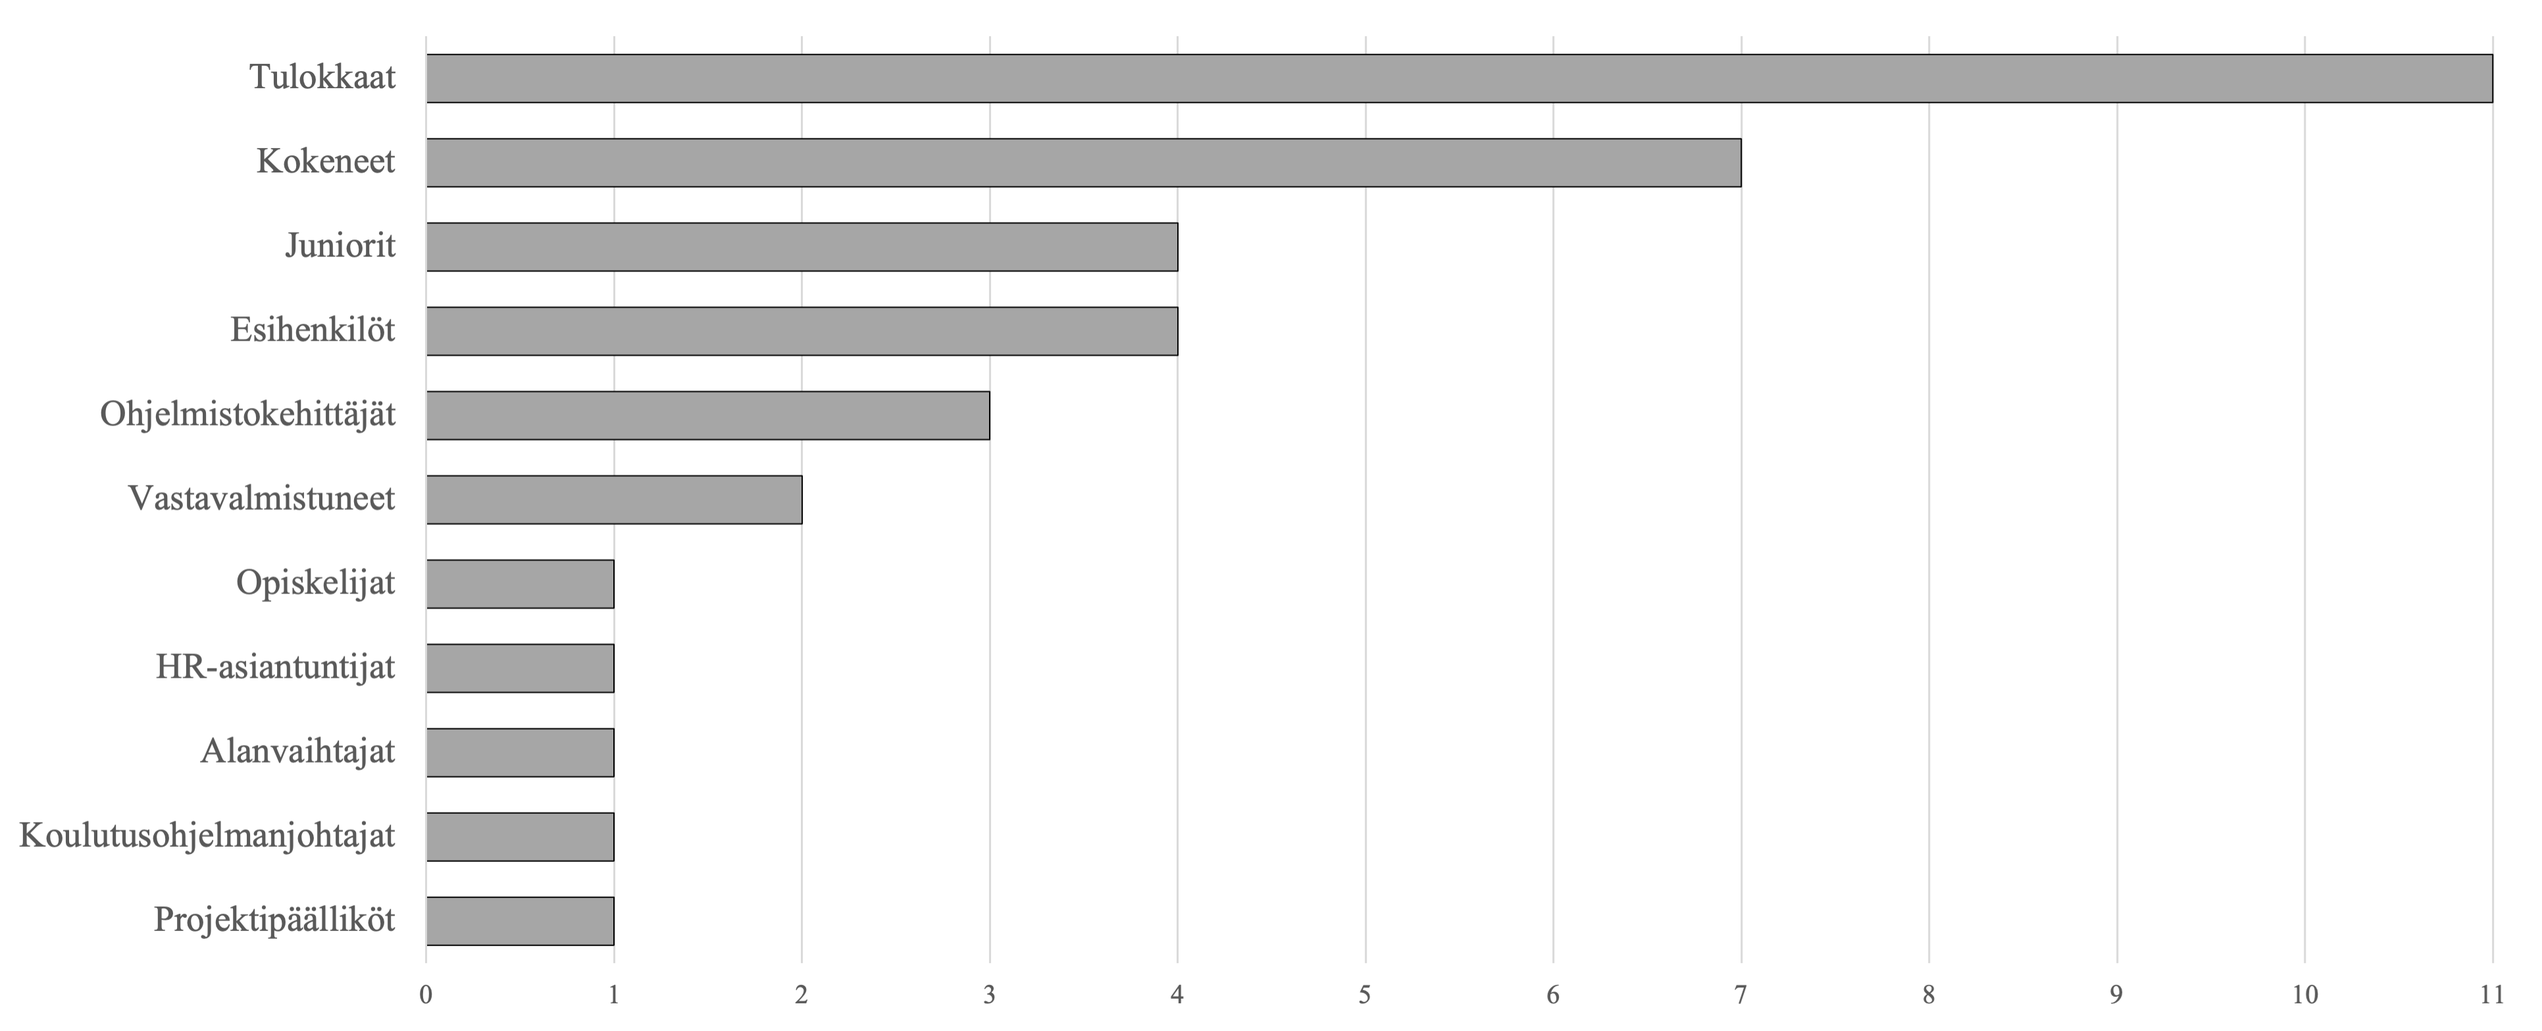
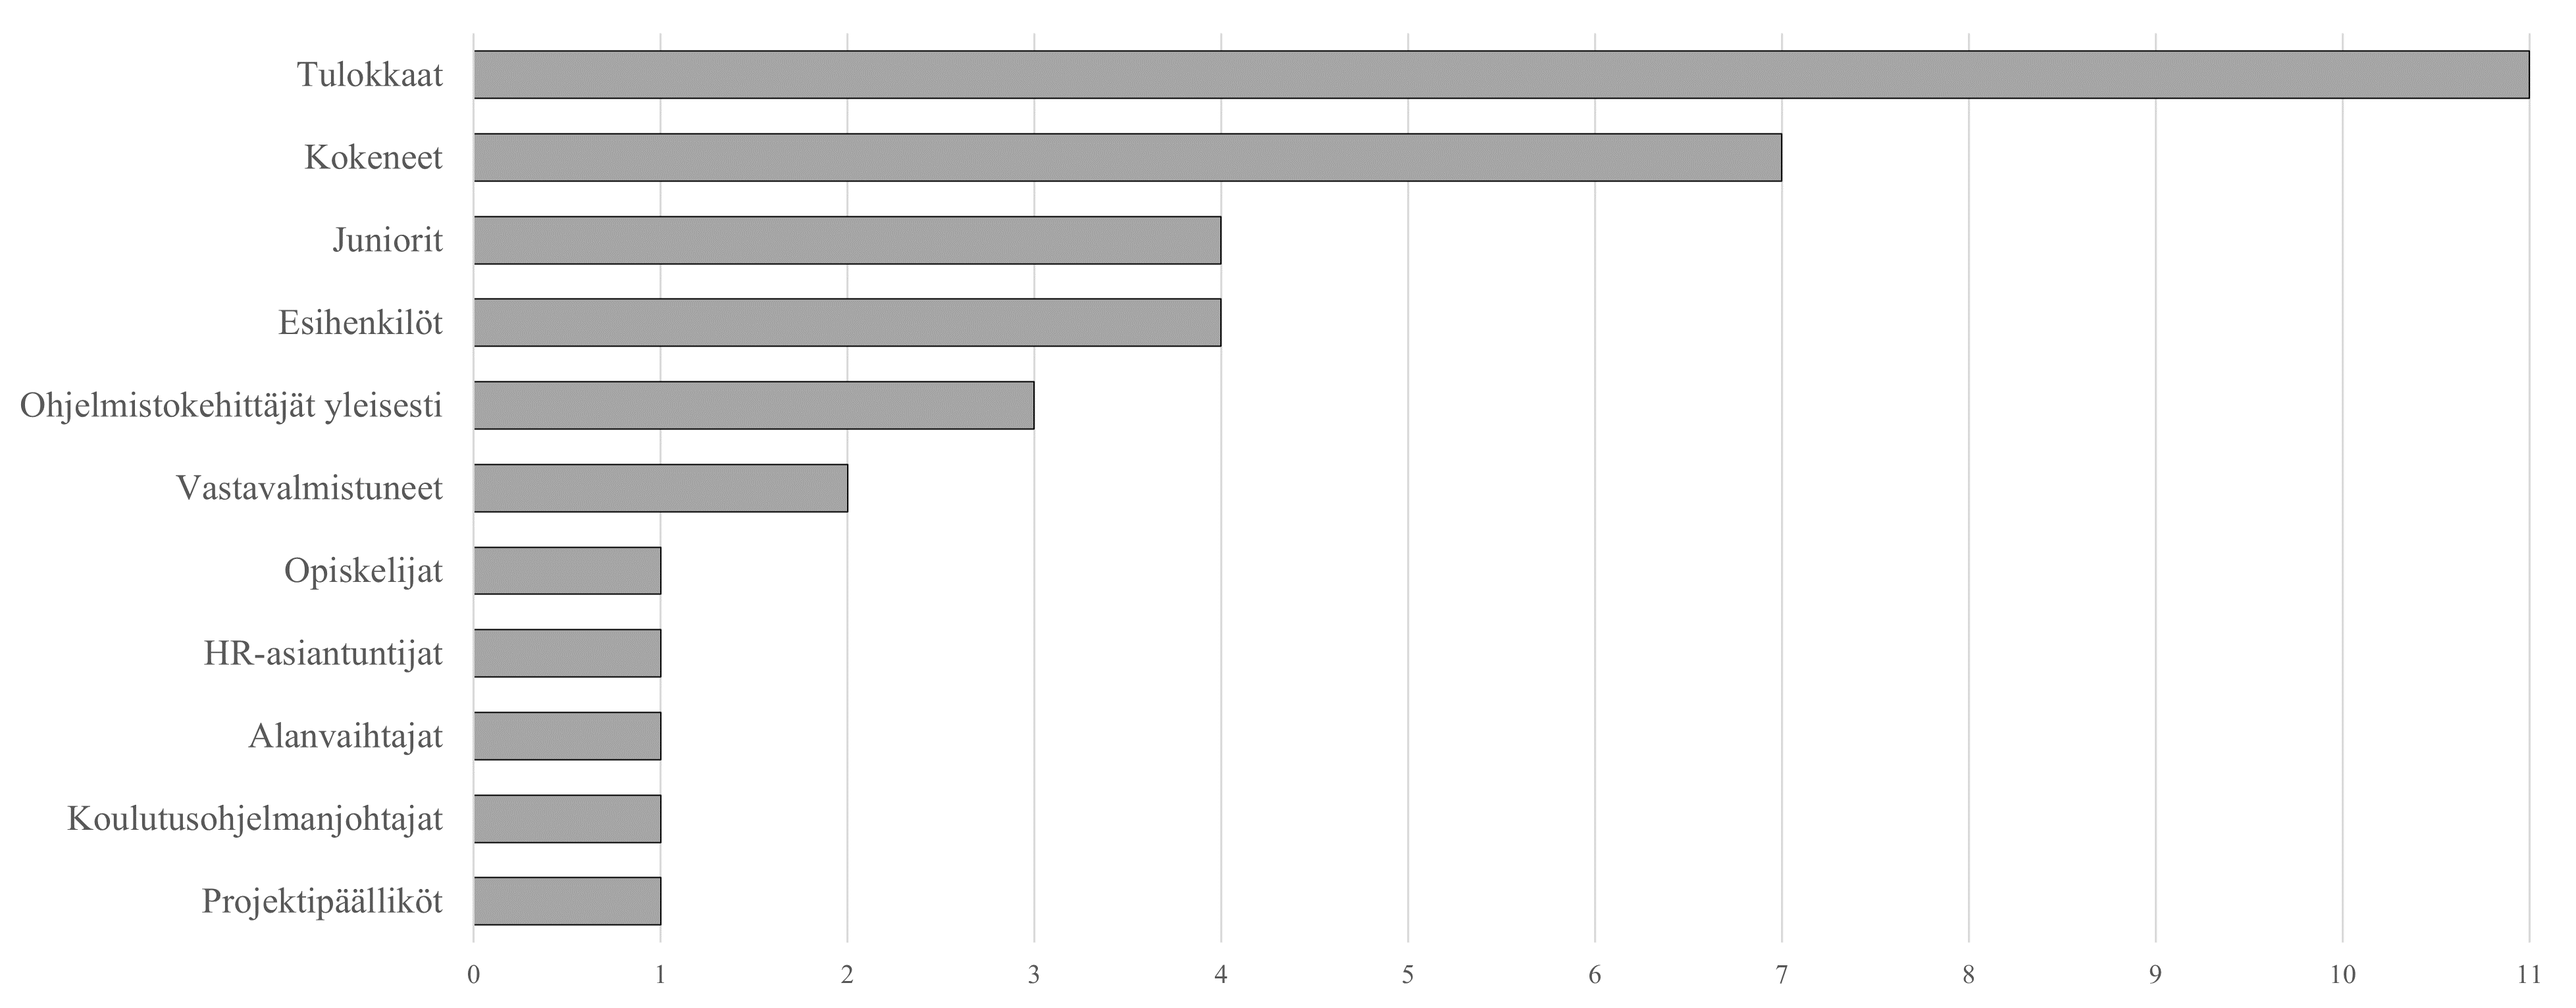
Updates from Overleaf

diff --git a/gradu.tex b/gradu.tex
@@ -553,7 +553,10 @@ Artikkeleissa mainittiin yhteensä 45 erilaista perehdytyskäytäntöä, jotka e
     \label{kuvio:kaytannot}
 \end{figure}
 
-Artikkeleissa mainitut perehdyttämiskäytännöt jaoteltiin luvussa \ref{luku-SRT-teoria} esitellyn sosialisaatioresurssien teorian mukaisesti. Jaottelu on havainnollistettu taulukossa \ref{tbl:longtable-srt-ulottuvuudet-ja-niiden-kaytannot}. Esimerkiksi sosialisaatioresurssien teorian ennakoivaan sosialisaatioon (ulottuvuus 1) sijoitettiin alkukartoituskyselyihin ja esittäytymissähköposteihin liittyvät käytännöt. Ulottuvuuksien mainintamäärät on kuvattu kuviossa \ref{kuvio:ulottuvuudet}. Mentorointi (ulottuvuus 4) oli yleisin, sillä se mainittiin 16 artikkelissa. Viidessätoista artikkelissa mainittiin käytännön työtehtäviin ja työn luonteeseen liittyviä käytäntöjä (ulottuvuus 12). Näitä olivat esimerkiksi työtehtävän kontekstualisointi, ``Good First Issue'' ja yhteistoiminnallinen ohjelmointi. Seuraavaksi eniten (11 kpl) mainintoja sai palaute (ulottuvuus 14), johon luettiin katselmointi, tulokkaalle annettava positiivinen palaute ja tulokkaan suoriutumisen arviointi.
+Artikkeleissa mainitut perehdyttämiskäytännöt jaoteltiin luvussa \ref{luku-SRT-teoria} esitellyn sosialisaatioresurssien teorian mukaisesti. Jaottelu on havainnollistettu taulukossa \ref{tbl:longtable-srt-ulottuvuudet-ja-niiden-kaytannot}. Esimerkiksi sosialisaatioresurssien teorian ennakoivaan sosialisaatioon (ulottuvuus 1) sijoitettiin alkukartoituskyselyihin ja esittäytymissähköposteihin liittyvät käytännöt. Ulottuvuuksien mainintamäärät on kuvattu kuviossa \ref{kuvio:ulottuvuudet}. Mentorointi (ulottuvuus 4) oli yleisin, sillä se mainittiin 16 artikkelissa. 
+ Mentorointi tarkoitti käytännössä sitä, että tulokkaalle nimettiin mentoriksi häntä kokeneempi ohjelmistokehittäjä, jonka puoleen hän sai kääntyä tarvittaessa. Joissakin artikkeleissa mentorointi \parencite{bjornson-dingsøyr-2005} otettiin käyttöön toimintatutkimuksen myötä, kun taas joissakin se oli jo vakiintunut käytäntö. Esimerkiksi \textcite{moe-ym-2020} kertovat, että heidän tutkimassaan yrityksessä kukin kokenut ohjelmistokehittäjä toimi mentorina yhdelle tai kahdelle tulokkaalle. Työpari työskenteli aluksi yhdessä, minkä jälkeen mentorin vastuulla oli delegoida tulokkaalle työtehtäviä, seurata niiden edistymistä ja vastata tulokkaan kysymyksiin \parencite{moe-ym-2020}. \textcite{ju-ym-2021} kertovat, että heidän tutkimansa yrityksen mentorien tehtäviin kuului auttaa tulokasta tutustumaan kollegoihinsa, vastata kysymyksiin ja jakaa tulokkaalle työtehtäviä.
+
+Viidessätoista artikkelissa mainittiin käytännön työtehtäviin ja työn luonteeseen liittyviä käytäntöjä (ulottuvuus 12). Näitä olivat esimerkiksi yhteistoiminnallinen ohjelmointi, työtehtävän kontekstualisointi ja ``Good First Issue''. Yhteistoiminnallinen ohjelmointi viittaa käytäntöön, jossa tulokas tekee ohjelmointityötä samalla työasemalla yhden tai useamman kokeneen kollegansa kanssa. Seuraavaksi eniten (11 kpl) mainintoja sai palaute (ulottuvuus 14), johon luettiin katselmointi, tulokkaalle annettava positiivinen palaute ja tulokkaan suoriutumisen arviointi. Katselmointi tarkoitti nimenomaan tulokkaan tuottaman koodin katselmointia, jossa kokeneet ohjelmistokehittäjän arvioivat tulokkaan ehdottamia muutoksia kehitysehdotuksia esittäen.
 
 \setlength{\LTcapwidth}{\textwidth}
  \begin{scriptsize}
@@ -765,7 +768,9 @@ Myös pikaviestinnän (ka. 8,0) ja dokumenttien (ka. 7,0) analysointi toi esiin 
 \section{Tutkimuskohteiden kontekstit ja kohderyhmät}
 \label{luku-tulokset-kontekstit-kohderyhmät}
 
-Katsauksen tutkimusten yrityksissä tulokkaita perehdytettiin eri konteksteissa (ks. kuvio \ref{kuvio:kontekstit}). Eniten mainittu konteksti artikkeleissa oli \textit{Agile} eli ketterät menetelmät, joka mainittiin seitsemässä artikkelissa kahdestakymmenestä. Seuraavaksi eniten, viisi mainintaa, saivat globaalisti hajautettu ohjelmistokehitys ja suuret yritykset. Esimerkiksi \textcite{johnson-senges-2010} kertovat Googlen sekä \textcite{rodeghero-ym-2021} \textcite{ju-ym-2021} Microsoftin perehdytyskäytännöistä. Etätyöskentely, pienet yritykset, yrityksen järjestämä akatemia ja keskikokoiset yritykset olivat kontekstina kukin kahdessa artikkelissa. Esimerkiksi \textcite{rodeghero-ym-2021} raportoivat koronapandemian aikana työnsä aloittaneiden ohjelmistokehittäjien perehdyttämisestä. Katsauksen artikkelien tutkimuksissa kohderyhmänä olivat useimmiten tulokkaat eli uudet työntekijät. Myös kokeneita, junior-ohjelmistokehittäjiä ja esihenkilöitä oli tutkittu, kuten kuviosta (\ref{kuvio:kohderyhmat}) ilmenee. Yhtä lukuun ottamatta kaikissa artikkeleissa kohderyhmänä oli ohjelmistokehittäjät yleisesti, olivat he sitten tulokkaita, vastavalmistuneita, junioreja tai kokeneita. Näiden lisäksi yhdessä artikkelissa kohderyhmänä olivat loppuvaiheen opiskelijat.
+Katsauksen tutkimusten yrityksissä tulokkaita perehdytettiin eri konteksteissa (ks. kuvio \ref{kuvio:kontekstit}). Eniten mainittu konteksti artikkeleissa oli \textit{Agile} eli ketterät menetelmät, joka mainittiin seitsemässä artikkelissa kahdestakymmenestä. Seuraavaksi eniten, viisi mainintaa, saivat globaalisti hajautettu ohjelmistokehitys ja suuret yritykset. Esimerkiksi \textcite{johnson-senges-2010} kertovat Googlen sekä \textcite{rodeghero-ym-2021} \textcite{ju-ym-2021} Microsoftin perehdytyskäytännöistä. Etätyöskentely, pienet yritykset, yrityksen järjestämä akatemia ja keskikokoiset yritykset olivat kontekstina kukin kahdessa artikkelissa. Esimerkiksi \textcite{rodeghero-ym-2021} raportoivat koronapandemian aikana työnsä aloittaneiden ohjelmistokehittäjien perehdyttämisestä. 
+
+Katsauksen artikkeleissa mainittiin yksi tai useampi tutkimuksen kohderyhmä. Useimmiten oli mainittu tutkitun tulokkaita eli uusia, hiljattain yrityksessä aloittaneita työntekijöitä. Tulokkaiden perehdyttämiseen osallistuvat myös kokeneet työntekijät ja esihenkilöt, joita oli myös hyödynnetty informantteina, kuten kuviosta (\ref{kuvio:kohderyhmat}) ilmenee. Yhtä lukuun ottamatta kaikissa artikkeleissa yhtenä kohderyhmänä oli ohjelmistokehittäjät, olivat he sitten tulokkaita, vastavalmistuneita, junioreja tai kokeneita. Näiden lisäksi yhdessä artikkelissa kohderyhmänä olivat loppuvaiheen opiskelijat. Kolmessa artikkelissa ei eritelty tutkittujen ohjelmistokehittäjien kokeneisuutta (kuviossa \ref{kuvio:kohderyhmat} ``ohjelmistokehittäjät yleensä'').
 
 \begin{figure}[h]
     \centering
